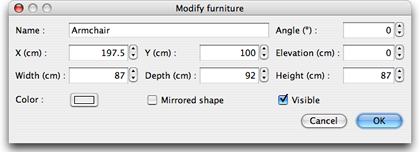
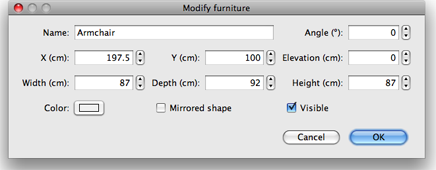
Updated help images for version 1.4
git-svn-id: https://svn.code.sf.net/p/sweethome3d/code/trunk@1309 03e323e1-6c6c-46a5-9f71-c4ce5d8c6204

Changed region(s): [[0.0, 0.0, 1.0, 1.0], [0.3405, 0.6053, 0.5571, 0.7105], [0.65, 0.6053, 0.7738, 0.7105]]

diff --git a/SweetHome3D/src/com/eteks/sweethome3d/swing/resources/help/en/printingHome.html b/SweetHome3D/src/com/eteks/sweethome3d/swing/resources/help/en/printingHome.html
@@ -33,11 +33,11 @@
       <p>By default, Sweet Home 3D prints the furniture list, the plan and the current 3D view of a home, using default paper
         size, margins and orientation.<br>
         If you want to modify these parameters, choose <i>File &gt; Page setup...</i>.</p>
-      <p align="center"><img src="images/pageSetup.png" alt="Page setup" width="190" height="141"></p>
+      <p align="center"><img src="images/pageSetup.png" alt="Page setup" width="190" height="152"></p>
       <p>          In the page setup pane, you may change paper size and orientation by clicking on the <i>Page format</i> button.
         You can choose also if the furniture list, the plan and the 3D view of a home should be printed or not.</p>
       <p>To preview your page setup at screen, choose <i>File &gt; Print preview...</i>.</p>
-      <p align="center"><img src="images/printPreview.png" alt="Print preview" width="316" height="281"></p>
+      <p align="center"><img src="images/printPreview.png" alt="Print preview" width="313" height="294"></p>
       <p>In the print preview pane, you can see how a home will be printed page by page. To change the previewed
         page, click on the arrows at the top of the pane or press the arrow keys.</p></td>
   </tr>

diff --git a/SweetHome3D/src/com/eteks/sweethome3d/swing/resources/help/cs/editingWalls.html b/SweetHome3D/src/com/eteks/sweethome3d/swing/resources/help/cs/editingWalls.html
@@ -74,7 +74,7 @@
 Při stisku tlačítka myši se zobrazí kontextová nápověda zobrazující délku vybrané zdi.<br>
         Veškeré úpravy zdí ve 2D plánu projektu se automaticky projevují ve 3D náhledu.</p>
         <p>Zdi můžete rovněž upravovat pomocí okna, které spustíte buď dvojitým kliknutím na vybrané zdi v plánu, nebo po označení zdi nabídkou  <i>Plán &gt; Upravit zdi...</i>.</p>
-        <p align="center"><img src="images/editingWalls.png" width="311" height="368"></p>
+        <p align="center"><img src="images/editingWalls.png" width="358" height="465"></p>
         <p>V okně úpravy zdí můžete měnit&nbsp;umístěn počátečního a konečného bodu zdi, barvu nebo texturu její levé i pravé strany, její tloušťku a výšku.<br>
 
           Jedná-li se o šikmou zeď, použijte jinou výšku jejího počátečního i konečného bodu a ujistěte se, že jste označili políčko <i>Šikmá zeď</i>.<br>

diff --git a/SweetHome3D/src/com/eteks/sweethome3d/swing/resources/help/fr/editingWalls.html b/SweetHome3D/src/com/eteks/sweethome3d/swing/resources/help/fr/editingWalls.html
@@ -86,7 +86,7 @@
         <p>Un mur peut &ecirc;tre aussi modifi&eacute;  gr&acirc;ce &agrave; son panneau, en double-cliquant sur ce mur
           dans le plan du logement, ou en choisissant <i>Plan
           &gt; Modifier les murs...</i> apr&egrave;s l'avoir s&eacute;lectionn&eacute;.</p>
-        <p align="center"><img src="images/editingWalls.png" width="326" height="389"></p>
+        <p align="center"><img src="images/editingWalls.png" width="364" height="467"></p>
         <p>Dans le panneau du mur, vous pouvez modifier les coordonn&eacute;es de ses points de d&eacute;part et de fin,
           les couleurs ou les textures de ses c&ocirc;t&eacute;s gauche et droit, son &eacute;paisseur et sa hauteur.<br>
           Si c'est un mur inclin&eacute; d'un sous-pente, choisissez des hauteurs diff&eacute;rentes &agrave; ses points

diff --git a/SweetHome3D/src/com/eteks/sweethome3d/swing/resources/help/cs/editingPreferences.html b/SweetHome3D/src/com/eteks/sweethome3d/swing/resources/help/cs/editingPreferences.html
@@ -26,7 +26,7 @@
 <table width="100%" border="0" cellspacing="0" cellpadding="3">
 	<tr>
 	<td><p>Nastavení programu Sweet Home 3D změníte v <i>Sweet Home 3D &gt; Nastavení...</i> v prostředí Mac OS X nebo v <i>Projekt &gt; Nastavení...</i> v jiných systémech.</p>
-	  <p align="center"><img src="images/editingPreferences.png" width="261" height="197"></p>
+	  <p align="center"><img src="images/editingPreferences.png" width="251" height="211"></p>
 	  <p>V okně nastavení můžete měnit <i>jazyk</i> prostředí programu Sweet Home 3D, <i>měrnou jednotku</i> užívanou v pravítku plánu, mřížce a všech dalších rozměrech.    <br>
 						
 	    Políčko <i>přichytávání</i> povoluje či zakazuje užívání přichytávání v plánu projektu při <a href="drawingWalls.html">kreslení zdí</a>

diff --git a/SweetHome3D/src/com/eteks/sweethome3d/swing/resources/help/en/editingFurniture.html b/SweetHome3D/src/com/eteks/sweethome3d/swing/resources/help/en/editingFurniture.html
@@ -87,7 +87,7 @@
 	  <p>A piece of furniture  may also be  edited thanks to its pane, by double-clicking on that piece in the home plan or
 	    furniture list, or by choosing <i>Furniture &gt; Modify...</i> after
 	    selecting it.</p>
-	  <p align="center"><img src="images/editingFurniture.png" alt="Modify furniture" width="420" height="152"></p>
+	  <p align="center"><img src="images/editingFurniture.png" alt="Modify furniture" width="436" height="170"></p>
 	  <p>In the furniture pane, you may change its name, its rotation angle, the abcissa (X) and the ordinate (Y) of its
 	    center, the elevation of its bottom from the floor, its width, its depth, its height, its color, its visibility
 	    and whether its 3D model shape should be mirrored.<br>

diff --git a/SweetHome3D/src/com/eteks/sweethome3d/swing/resources/help/fr/editingPreferences.html b/SweetHome3D/src/com/eteks/sweethome3d/swing/resources/help/fr/editingPreferences.html
@@ -28,7 +28,7 @@
 	<tr>
 	<td><p>Pour &eacute;diter les pr&eacute;f&eacute;rences de Sweet Home 3D, choisissez <i>Sweet Home 3D &gt; Pr&eacute;f&eacute;rences...</i> sous
 	    Mac OS X ou <i>Fichier &gt; Pr&eacute;f&eacute;rences...</i> sous les autres syst&egrave;mes d'exploitation.</p>
-	  <p align="center"><img src="images/editingPreferences.png" width="288" height="192"></p>
+	  <p align="center"><img src="images/editingPreferences.png" width="294" height="208"></p>
 	  <p>Dans le panneau des pr&eacute;f&eacute;rences, vous pouvez choisir la <i>Langue</i> utilis&eacute;e dans l'interface utilisateur
 	    de Sweet Home 3D et l'<i>Unit&eacute;</i> utilis&eacute;e
 	    pour dessiner les r&egrave;gles et la grille du plan du

diff --git a/SweetHome3D/src/com/eteks/sweethome3d/swing/resources/help/en/editing3DView.html b/SweetHome3D/src/com/eteks/sweethome3d/swing/resources/help/en/editing3DView.html
@@ -99,7 +99,7 @@
         it and press the keyboard arrows. </p>
         <p>Other attributes of the 3D view may be edited  by choosing <i>3D
           view &gt; Modify...</i>.</p>
-        <p align="center"><img src="images/editing3DView.png" width="318" height="204"></p>
+        <p align="center"><img src="images/editing3DView.png" width="350" height="216"></p>
         <p>In the 3D view pane, you may change&nbsp;the virtual visitor field of view, its height, the ground and
           sky (or ceiling) color, the ground texture, the light brightness and walls transparency.<br>
           The elevation of the virtual visitor point of view is equal to 13/14 of its height to respect adult human proportions.</p>
